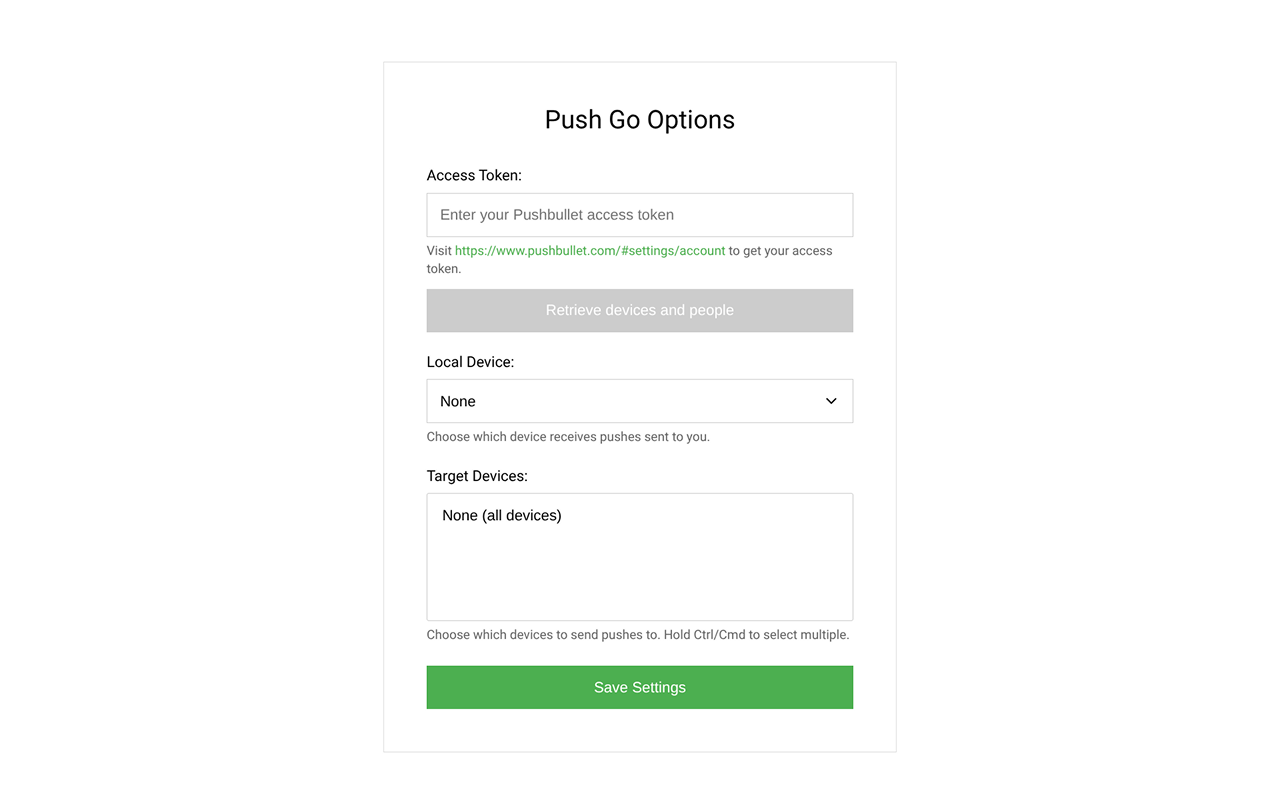
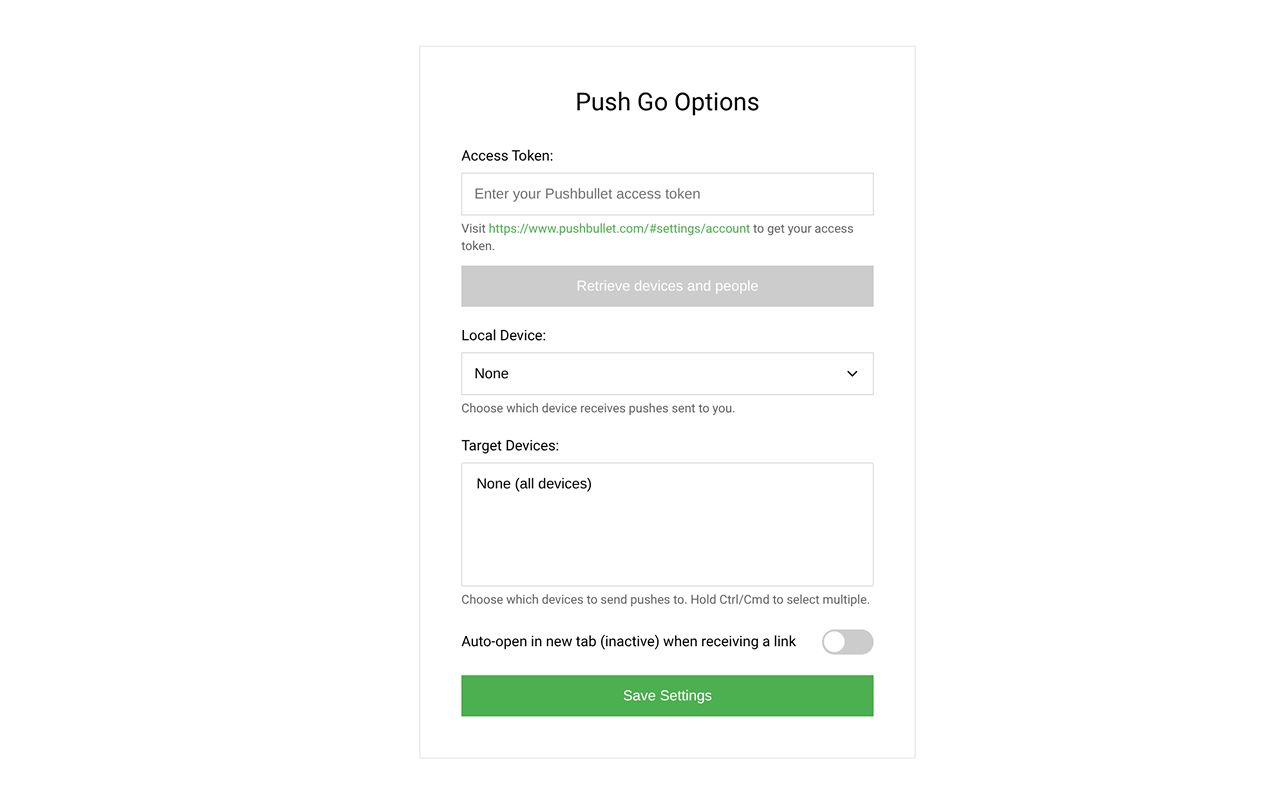
v1.3: 1) Add an option to auto-open received link in a new tab; 2) Auto-create a Chrome device if none exists; 3) Fix auto-scroll issue in the popup with image loading.

diff --git a/src/options.js b/src/options.js
@@ -5,11 +5,13 @@ document.addEventListener('DOMContentLoaded', function() {
   const saveButton = document.getElementById('save');
   const retrieveDevicesButton = document.getElementById('retrieveDevices');
   const status = document.getElementById('status');
+  const autoOpenLinksCheckbox = document.getElementById('autoOpenLinks');
+  const autoOpenLinksToggle = document.getElementById('autoOpenLinksToggle');
   
   let devices = [];
   let people = [];
 
-  chrome.storage.sync.get(['accessToken', 'localDeviceId', 'remoteDeviceId', 'devices', 'people'], function(data) {
+  chrome.storage.sync.get(['accessToken', 'localDeviceId', 'remoteDeviceId', 'devices', 'people', 'autoOpenLinks'], function(data) {
     accessTokenInput.value = data.accessToken || '';
     devices = data.devices || [];
     people = data.people || [];
@@ -26,10 +28,20 @@ document.addEventListener('DOMContentLoaded', function() {
       });
     }
     
+    // Load auto-open links setting (default is false/off)
+    autoOpenLinksCheckbox.checked = data.autoOpenLinks || false;
+    updateToggleVisual();
+    
     updateRetrieveButton();
   });
   
   accessTokenInput.addEventListener('input', updateRetrieveButton);
+  
+  // Handle toggle clicks
+  autoOpenLinksToggle.addEventListener('click', function() {
+    autoOpenLinksCheckbox.checked = !autoOpenLinksCheckbox.checked;
+    updateToggleVisual();
+  });
 
   retrieveDevicesButton.addEventListener('click', async function() {
     const accessToken = accessTokenInput.value.trim();
@@ -52,6 +64,41 @@ document.addEventListener('DOMContentLoaded', function() {
       
       const devicesData = await devicesResponse.json();
       devices = devicesData.devices || [];
+      
+      // Check if there's a Chrome device, if not create one
+      const hasChromeDevice = devices.some(device => device.type === 'chrome');
+      if (!hasChromeDevice) {
+        console.log('No Chrome device found, creating one...');
+        const createDeviceResponse = await fetch('https://api.pushbullet.com/v2/devices', {
+          method: 'POST',
+          headers: {
+            'Access-Token': accessToken,
+            'Content-Type': 'application/json'
+          },
+          body: JSON.stringify({
+            nickname: 'Chrome',
+            type: 'chrome',
+            model: 'Chrome'
+          })
+        });
+        
+        if (createDeviceResponse.ok) {
+          console.log('Chrome device created successfully');
+          // Re-fetch devices to get the complete updated list
+          const updatedDevicesResponse = await fetch('https://api.pushbullet.com/v2/devices', {
+            headers: {
+              'Access-Token': accessToken
+            }
+          });
+          
+          if (updatedDevicesResponse.ok) {
+            const updatedDevicesData = await updatedDevicesResponse.json();
+            devices = updatedDevicesData.devices || [];
+          }
+        } else {
+          console.warn('Failed to create Chrome device:', createDeviceResponse.status, createDeviceResponse.statusText);
+        }
+      }
       
       // Fetch chats (people)
       const chatsResponse = await fetch('https://api.pushbullet.com/v2/chats', {
@@ -105,7 +152,8 @@ document.addEventListener('DOMContentLoaded', function() {
       localDeviceId: localDeviceId || '',
       remoteDeviceId: selectedRemoteDevices || '',
       devices: devices,
-      people: people
+      people: people,
+      autoOpenLinks: autoOpenLinksCheckbox.checked
     };
 
     chrome.storage.sync.set(saveData, function() {
@@ -136,6 +184,14 @@ document.addEventListener('DOMContentLoaded', function() {
   function updateRetrieveButton() {
     const hasToken = accessTokenInput.value.trim().length > 0;
     retrieveDevicesButton.disabled = !hasToken;
+  }
+  
+  function updateToggleVisual() {
+    if (autoOpenLinksCheckbox.checked) {
+      autoOpenLinksToggle.classList.add('active');
+    } else {
+      autoOpenLinksToggle.classList.remove('active');
+    }
   }
   
   function showStatus(message, type) {

diff --git a/src/options.html b/src/options.html
@@ -134,6 +134,44 @@
     select[multiple] {
       height: 120px;
     }
+    .toggle-container {
+      display: flex;
+      align-items: center;
+      justify-content: space-between;
+      margin-bottom: 20px;
+    }
+    .toggle-label {
+      margin: 0;
+      flex: 1;
+    }
+    .toggle-switch {
+      position: relative;
+      width: 50px;
+      height: 24px;
+      background: #ccc;
+      border-radius: 12px;
+      cursor: pointer;
+      transition: background-color 0.3s;
+    }
+    .toggle-switch.active {
+      background: #4caf50;
+    }
+    .toggle-slider {
+      position: absolute;
+      top: 2px;
+      left: 2px;
+      width: 20px;
+      height: 20px;
+      background: white;
+      border-radius: 50%;
+      transition: transform 0.3s;
+    }
+    .toggle-switch.active .toggle-slider {
+      transform: translateX(26px);
+    }
+    .toggle-input {
+      display: none;
+    }
   </style>
 </head>
 <body>
@@ -163,6 +201,13 @@
       </select>
       <div class="tip">
         Choose which devices to send pushes to. Hold Ctrl/Cmd to select multiple.
+      </div>
+    </div>
+    <div class="toggle-container">
+      <label class="toggle-label">Auto-open in new tab (inactive) when receiving a link</label>
+      <input type="checkbox" id="autoOpenLinks" class="toggle-input">
+      <div class="toggle-switch" id="autoOpenLinksToggle">
+        <div class="toggle-slider"></div>
       </div>
     </div>
     <button id="save">Save Settings</button>

diff --git a/src/background.js b/src/background.js
@@ -314,12 +314,17 @@ async function refreshPushList(isFromTickle = false) {
           // Skip notifications on first fetch to avoid notifying about initial 20 messages
           if (isFromTickle && !isFirstFetch) {
             // Apply device filtering for notifications (same as popup display)
-            const configData = await chrome.storage.sync.get('localDeviceId');
+            const configData = await chrome.storage.sync.get(['localDeviceId', 'autoOpenLinks']);
             
             newPushes.forEach(push => {
               // Only show notification if no device filter is set, or if push matches the device filter
               if (!configData.localDeviceId || push.target_device_iden === configData.localDeviceId) {
                 showNotificationForPush(push);
+                
+                // Auto-open link pushes in background tabs (only if enabled)
+                if (push.type === 'link' && push.url && configData.autoOpenLinks) {
+                  chrome.tabs.create({ url: push.url, active: false });
+                }
               }
             });
           }

diff --git a/src/popup.js b/src/popup.js
@@ -219,6 +219,10 @@ document.addEventListener('DOMContentLoaded', function() {
           img.src = push.file_url;
           img.className = 'message-image';
           img.onclick = () => window.open(push.file_url, '_blank');
+          // Add load event listener to handle scroll positioning after image loads
+          img.onload = () => {
+            messagesList.scrollTop = messagesList.scrollHeight;
+          };
           bodyDiv.appendChild(img);
         } else {
           const link = document.createElement('a');

diff --git a/README.md b/README.md
@@ -17,6 +17,7 @@ Require a [Pushbullet](https://www.pushbullet.com/) account. Features include:
 - Push files/images by pasting or uploading (in standalone window due to Chrome's restriction)
 - Push current page's URL, selected text, or images from context menu with device/people selection
 - Notifications for received pushes with button to open links
+- Auto-open received link in a new tab (default off, enable in options page)
 - Filter received pushes and control which devices to push to by selecting devices
 - Stores 100 latest pushes locally (full history available on Pushbullet website)
 
